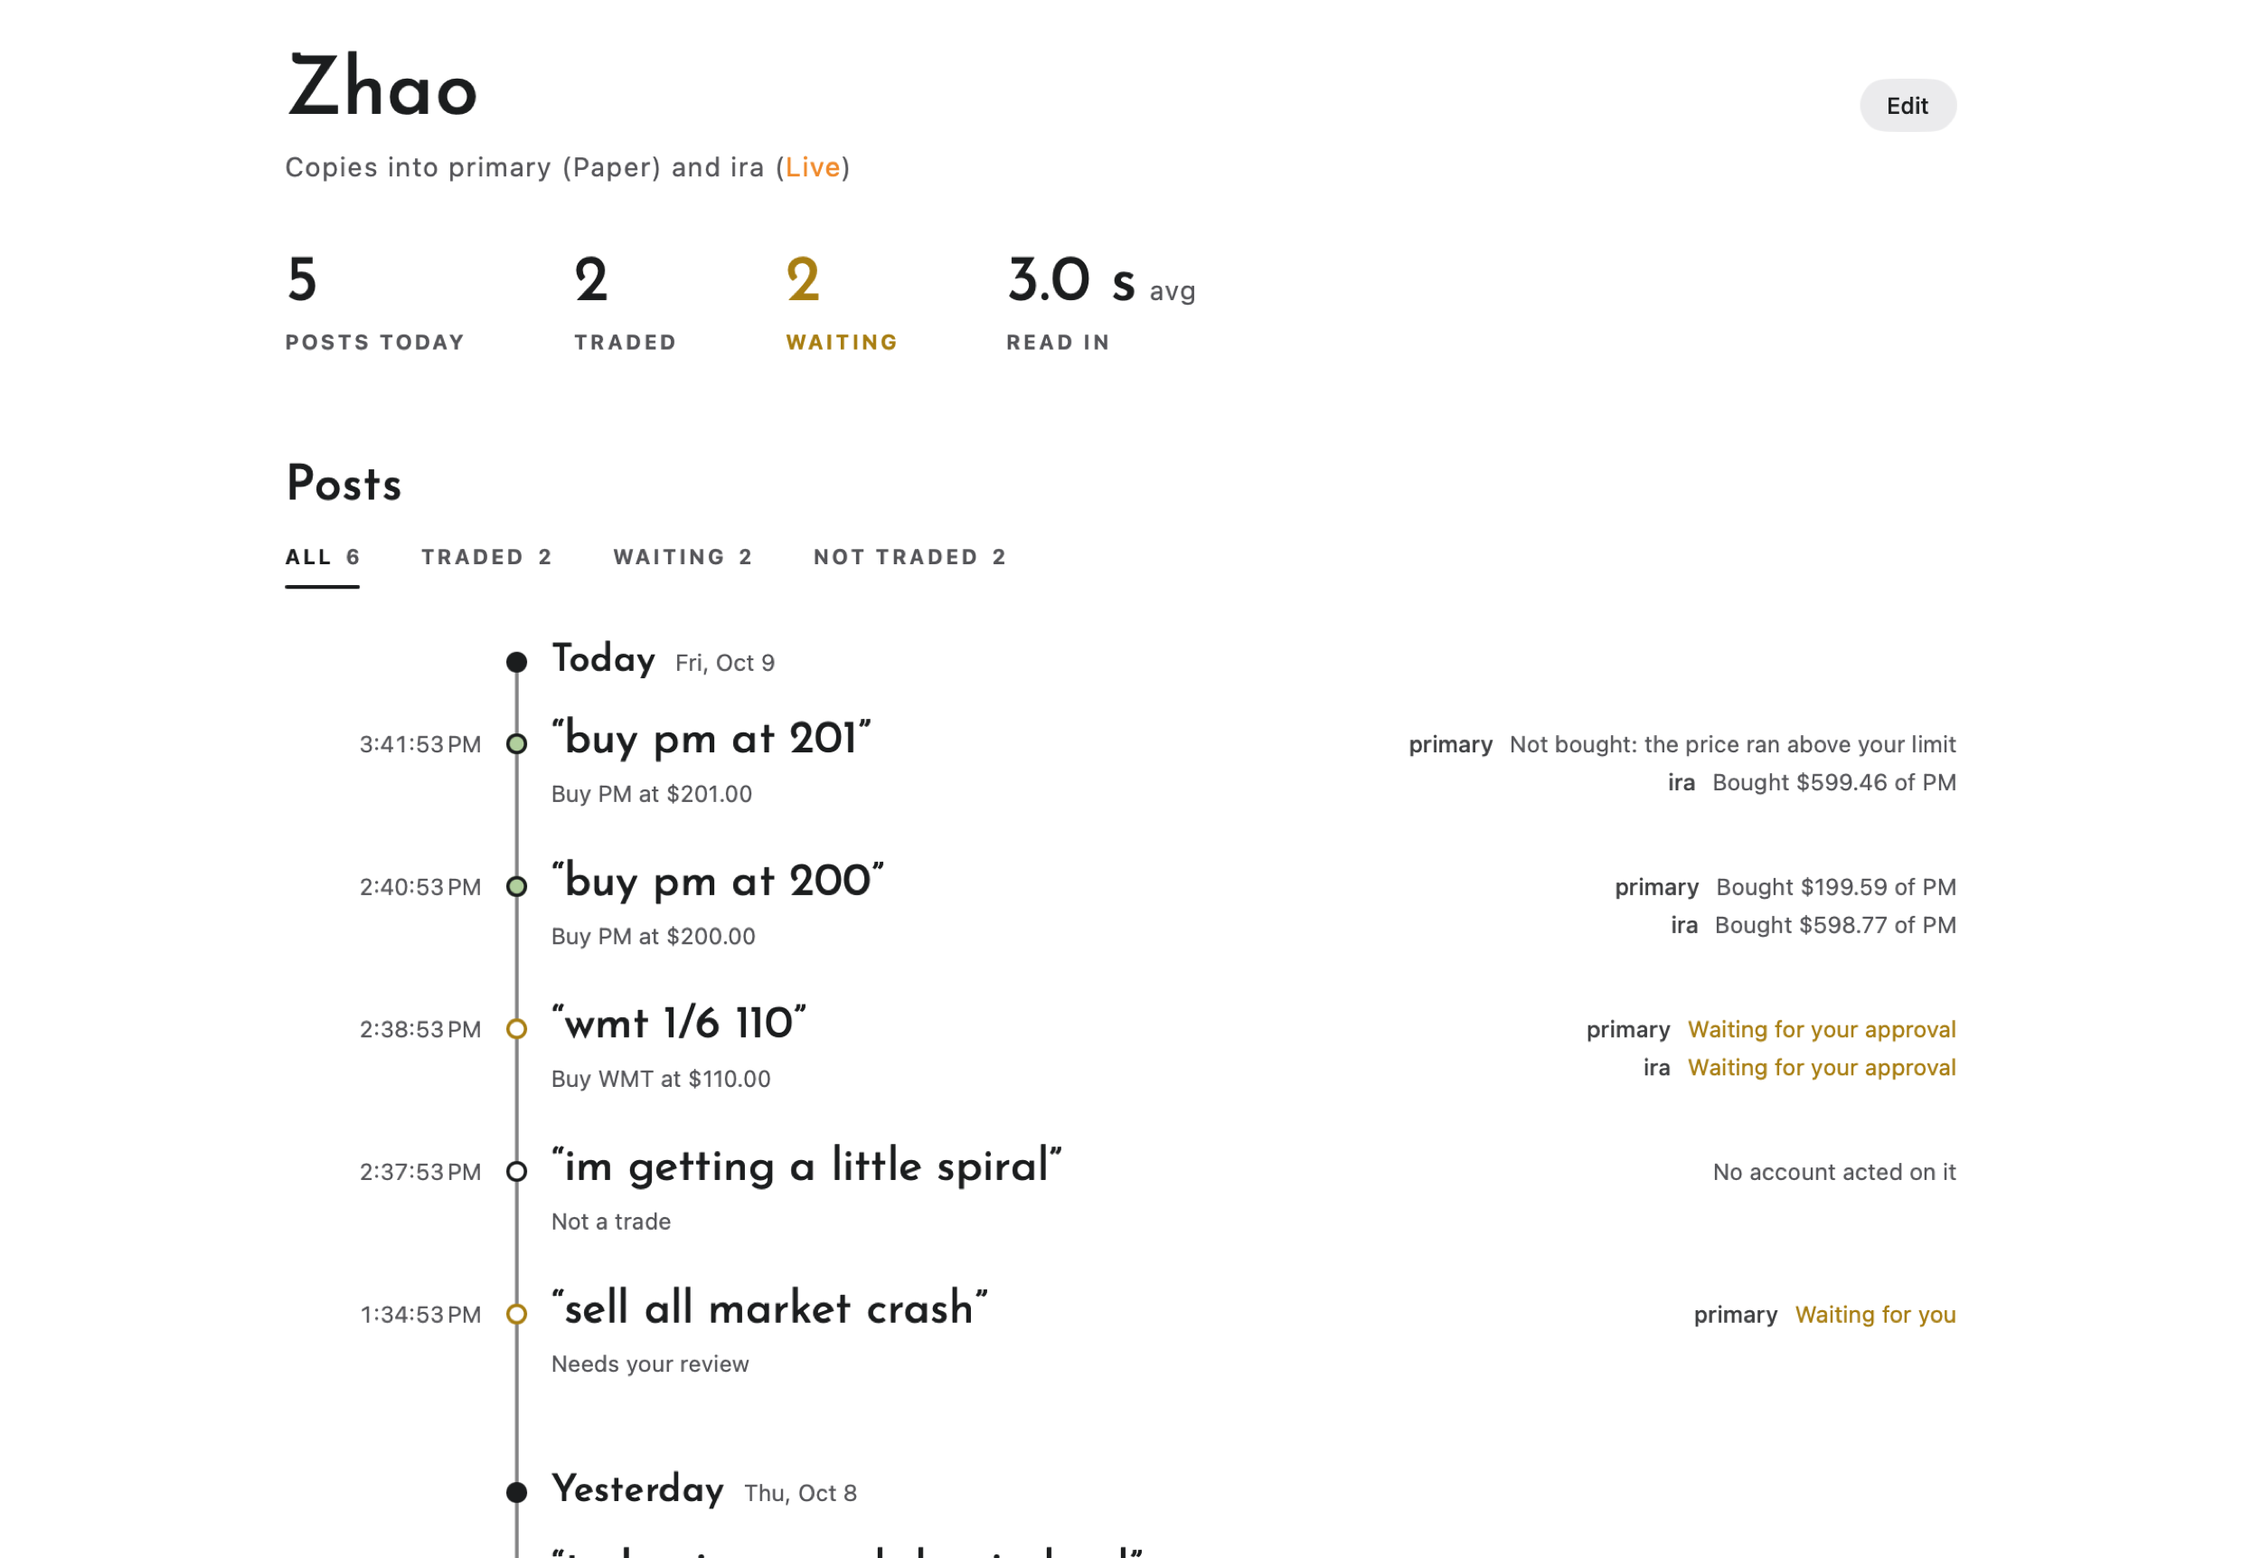
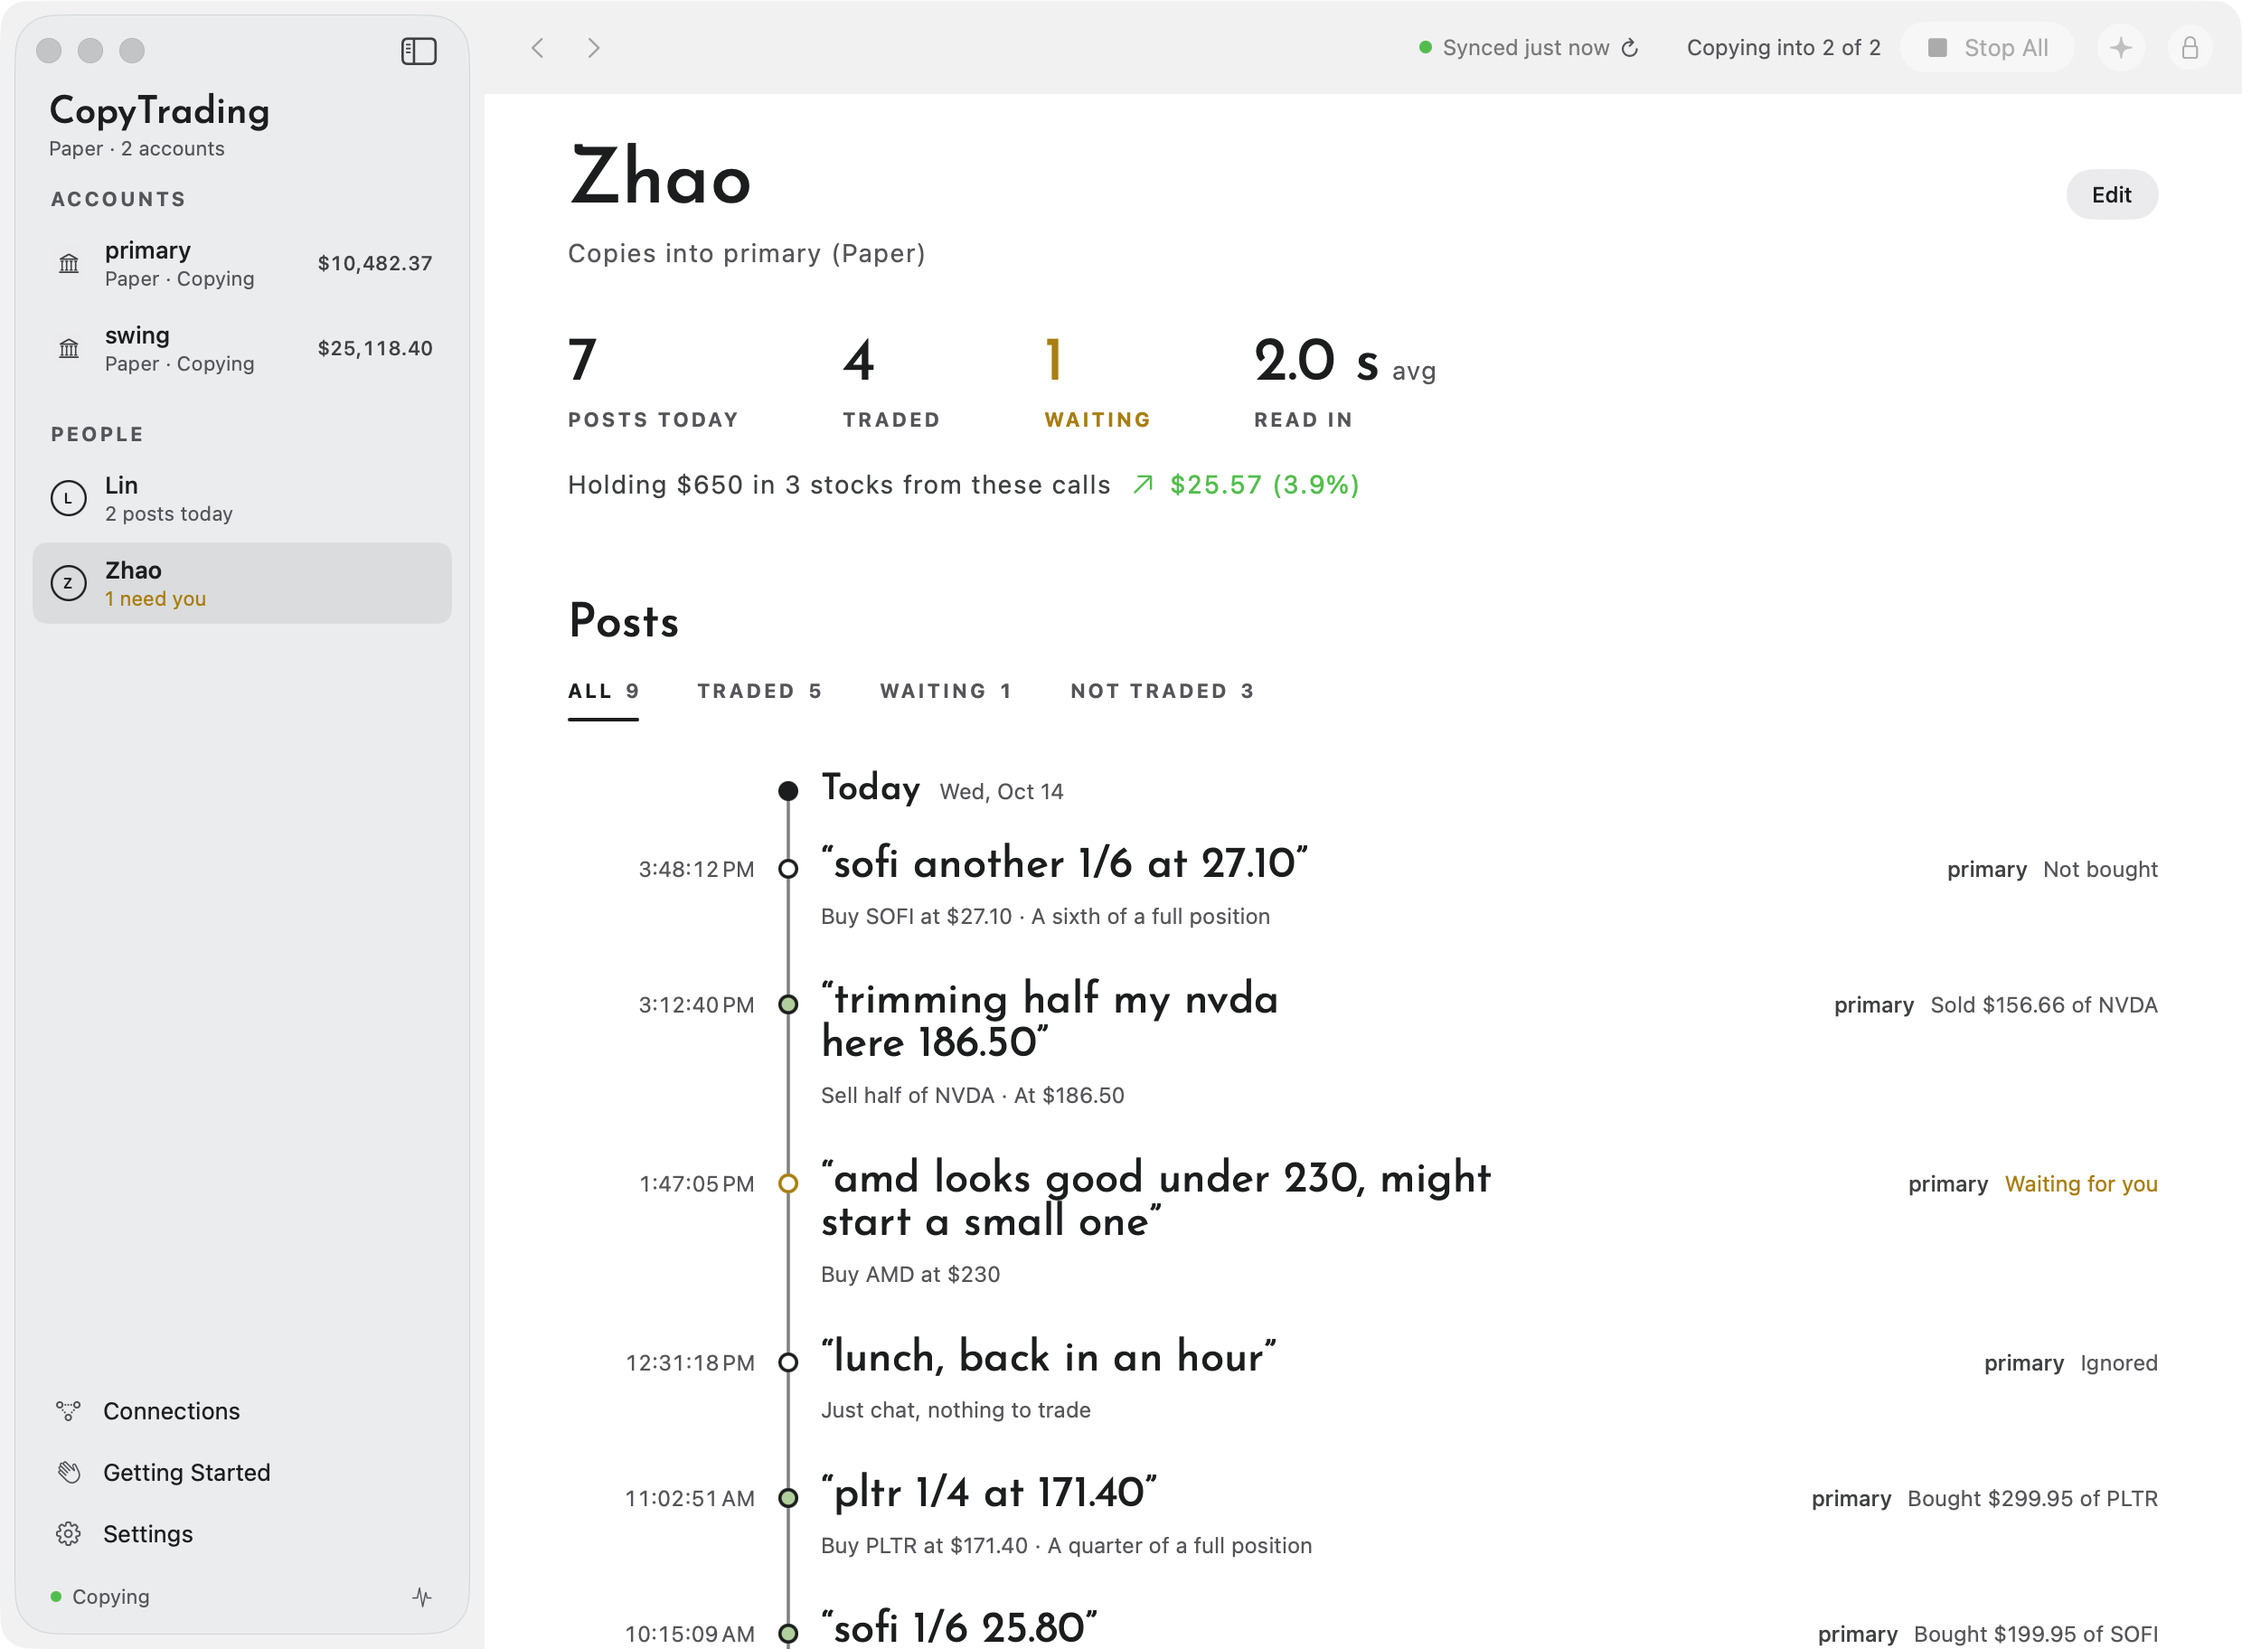
README shows the app as it is for 0.1.0-alpha.11 (#91)
- Regenerated `docs/assets/{account,guru,guru-sheet,connections}.png`
and the `zh/` set from the current SwiftUI views (scratch harness
outside the repo, demo data: two paper accounts, one guru each, English
posts; Chinese through the app's own language preference).
- The account page now shows Start/Stop Copying and cash + buying power
under the balance; the guru copies into one account.
- "Command line and agents" (both languages): the example matches
`cli.py`'s real output and mentions `copytrading accounts limits …
--max-order-usd 300` and `copytrading start`, both approved with Touch
ID in the app.
- Image alt texts describe what is shown instead of "sample data".
Download links, version, and CHANGELOG are untouched.

`uvx pre-commit run --all-files` passes.

🤖 Generated with [Claude Code](https://claude.com/claude-code)
https://claude.ai/code/session_01FSmZjkTWfnTTjHLmHvuQGL

diff --git a/README.md b/README.md
@@ -36,7 +36,7 @@ CopyTrading is a native macOS app that reads the stock calls traders post on Dis
 > **Developer preview.** CopyTrading has not been qualified for live trading. Start with an Alpaca paper account, and see [validation](docs/validation.md) for what has and has not been proven.
 
 <p align="center">
-  <a href="docs/assets/account.png"><img src="docs/assets/account.png" alt="An account: its balance and the day's change, the equity curve, cash and buying power, every limit under one Limits title with today's loss and what is in stocks against their caps, and each position with whose shares they are (sample data)" width="860"></a>
+  <a href="docs/assets/account.png"><img src="docs/assets/account.png" alt="A paper account that is copying, with Stop Copying: its balance, the day's change, cash and buying power on one line, the equity curve, its limits, a call waiting for you, and each position marked as from the guru or yours" width="860"></a>
 </p>
 
 <details>
@@ -44,9 +44,9 @@ CopyTrading is a native macOS app that reads the stock calls traders post on Dis
 <br>
 <table>
   <tr>
-    <td width="33%"><a href="docs/assets/guru.png"><img src="docs/assets/guru.png" alt="A guru: today's numbers and every post on one timeline, with what each account did (sample data)"></a></td>
-    <td width="33%"><a href="docs/assets/guru-sheet.png"><img src="docs/assets/guru-sheet.png" alt="A guru's settings: where they post, the account they copy into with what each call buys, and their playbook (sample data)"></a></td>
-    <td width="33%"><a href="docs/assets/connections.png"><img src="docs/assets/connections.png" alt="Connections: Discord, the model that reads posts, broker accounts, and gurus (sample data)"></a></td>
+    <td width="33%"><a href="docs/assets/guru.png"><img src="docs/assets/guru.png" alt="A guru who copies into one paper account: today's numbers and every post on one timeline, traded, waiting, or ignored"></a></td>
+    <td width="33%"><a href="docs/assets/guru-sheet.png"><img src="docs/assets/guru-sheet.png" alt="A guru's settings: where they post, the one account they copy into with what each call buys, their playbook, and an example"></a></td>
+    <td width="33%"><a href="docs/assets/connections.png"><img src="docs/assets/connections.png" alt="Connections: Discord, the model that reads posts, the optional chat filter, and two paper broker accounts, all connected"></a></td>
   </tr>
   <tr>
     <td align="center"><sub><b>A guru</b>: every post and what came of it</sub></td>
@@ -116,16 +116,22 @@ A SwiftUI app supervises one local Python engine. The engine owns every decision
 
 ## Command line and agents
 
-The `copytrading` CLI and MCP server let you, a script, or a coding agent read the running app and pause it. Anything that could trade becomes a proposal you approve with Touch ID in the app. Turn it on in **Settings → Agent Access**; the command ships inside the app at `CopyTrading.app/Contents/Helpers/copytrading`.
+The `copytrading` CLI and MCP server let you, a script, or a coding agent read the running app and pause it. Anything that could trade becomes a proposal you approve with Touch ID in the app. `copytrading accounts limits ACCOUNT --max-order-usd 300 …` changes an account's limits and `copytrading start` starts copying with Start Copying's own checks; both wait for your Touch ID in the app. Turn it on in **Settings → Agent Access**; the command ships inside the app at `CopyTrading.app/Contents/Helpers/copytrading`.
 
 ```console
 $ copytrading status
-Engine      Ready
-Processing  Running
-Accounts    paper-main  copying on, recovery manual
+Engine      running
+Processing  running
+Source      connected
+Model       ready
+Queued      0 messages, 0 signals
+Account     primary  running, copying on, recovery manual
 
-$ copytrading accounts resume paper-main
-Waiting for approval in CopyTrading: proposal p-4e1a9c, expires 16:42.
+$ copytrading accounts limits primary --max-order-usd 300
+Waiting for approval in CopyTrading: change primary: max order usd = 300. Proposal p-4e1a9c07d2b3, expires 2026-10-14 16:42:00.
+
+$ copytrading start
+Waiting for approval in CopyTrading: start copying. Proposal p-81f0c6a95e24, expires 2026-10-14 16:43:10.
 ```
 
 See [agent control](docs/agent-control.md) for the commands, permission tiers, and threat model.
